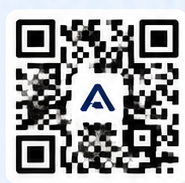
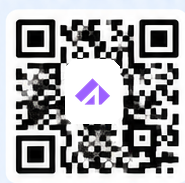
feat: add CanvasTableOfContentsPage component and brand asset images

Changed region(s): [[0.3514, 0.3005, 0.6486, 0.6284], [0.4324, 0.6557, 0.6216, 0.6831], [0.3784, 0.6557, 0.4054, 0.6831]]

diff --git a/frontend/app/templates/Sections&Graphs/components/CanvasStudioComponent/CanvasTableOfContentsPage.tsx b/frontend/app/templates/Sections&Graphs/components/CanvasStudioComponent/CanvasTableOfContentsPage.tsx
@@ -490,13 +490,7 @@ export function CanvasTableOfContentsPage({
         </div>
       </footer>
 
-      {/* Editor Hint Pill (Editor only) */}
-      {!activeIsPreview && (
-        <div className="absolute top-2 left-1/2 -translate-x-1/2 z-50 flex items-center gap-1 bg-white/95 backdrop-blur text-[#0f2044] text-[8px] font-bold px-2.5 py-1 rounded-full shadow border border-slate-200 pointer-events-none">
-          <Edit3 className="w-2.5 h-2.5 text-blue-600" />
-          TABLE OF CONTENTS — double-click text to edit
-        </div>
-      )}
+      
     </div>
   );
 }
